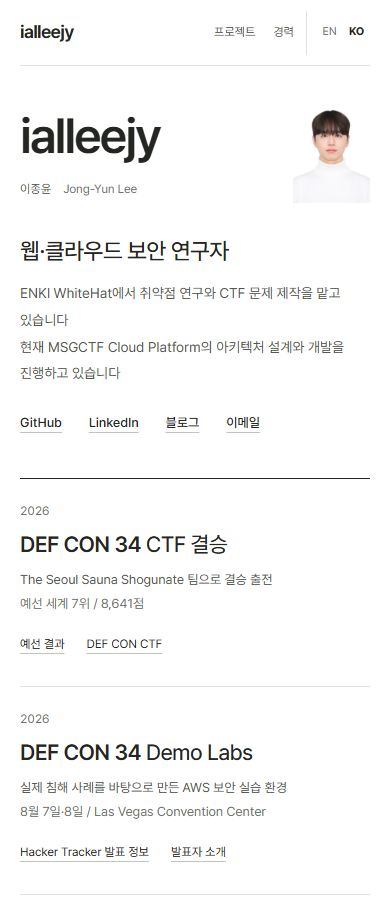
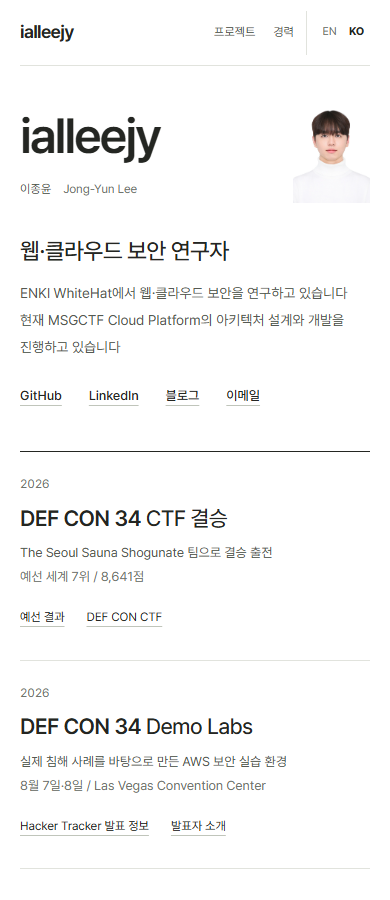
Clarify security research role in portfolio introduction

diff --git a/index_ko.html b/index_ko.html
@@ -48,7 +48,7 @@
         <h1 id="intro-title">ialleejy</h1>
         <p class="hero-identity">이종윤<span>Jong-Yun Lee</span></p>
         <p class="hero-role">웹·클라우드 보안 연구자</p>
-        <p class="hero-copy">ENKI WhiteHat에서 취약점 연구와 CTF 문제 제작을 맡고 있습니다<br> 현재 MSGCTF Cloud Platform의 아키텍처 설계와 개발을 진행하고 있습니다</p>
+        <p class="hero-copy">ENKI WhiteHat에서 웹·클라우드 보안을 연구하고 있습니다<br> 현재 MSGCTF Cloud Platform의 아키텍처 설계와 개발을 진행하고 있습니다</p>
         <div class="hero-links"><div class="link-row" aria-label="연락처와 프로필"><a href="https://github.com/jongcoding" target="_blank" rel="noopener noreferrer">GitHub</a>
 <a href="https://www.linkedin.com/in/jongyun-lee-753747122/" target="_blank" rel="noopener noreferrer">LinkedIn</a>
 <a href="https://ialleejy.tistory.com" target="_blank" rel="noopener noreferrer">블로그</a>
@@ -377,9 +377,9 @@
         </div>
         <div class="job-body">
           <dl class="workstreams">
-            <div><dt>웹 보안 연구와 문제 제작</dt><dd>실제 서비스 구조를 바탕으로 취약점 시나리오를 설계하고 CODEGATE·HACKTHEON Web 문제 제작</dd></div>
+            <div><dt>웹 보안과 취약점 연구</dt><dd>웹 애플리케이션의 구조와 인증 흐름을 분석하고 취약점이 발생하는 조건과 영향을 연구</dd></div>
             <div><dt>클라우드·AI 에이전트 보안 연구</dt><dd>AWS Bedrock Agent와 RAG 지식 베이스, OIDC 인증 흐름, IAM 신뢰 정책을 중심으로 애플리케이션과 클라우드 사이의 신뢰 경계 연구</dd></div>
-            <div><dt>실습 환경 개발과 배포 검증</dt><dd>Docker·Compose·Nginx 기반 실행 환경 구성, 의도한 풀이와 해설 작성, 운영 환경에서 문제 동작과 재현 조건 검증</dd></div>
+            <div><dt>보안 연구 환경 개발과 검증</dt><dd>Docker·Compose·Nginx 기반 연구 환경 구성, 취약점 재현 조건과 서비스 동작 검증, 연구 결과 문서화</dd></div>
           </dl>
           <div class="challenge-grid" aria-label="제작한 CTF 문제">
             <div>

diff --git a/index.html b/index.html
@@ -48,7 +48,7 @@
         <h1 id="intro-title">ialleejy</h1>
         <p class="hero-identity">Jong-Yun Lee<span>이종윤</span></p>
         <p class="hero-role">Web &amp; cloud security researcher</p>
-        <p class="hero-copy">Security research and CTF challenge design at ENKI WhiteHat<br> Currently designing and building MSGCTF Cloud Platform with the team</p>
+        <p class="hero-copy">Web and cloud security research at ENKI WhiteHat<br> Currently designing and building MSGCTF Cloud Platform with the team</p>
         <div class="hero-links"><div class="link-row" aria-label="Contact &amp; profiles"><a href="https://github.com/jongcoding" target="_blank" rel="noopener noreferrer">GitHub</a>
 <a href="https://www.linkedin.com/in/jongyun-lee-753747122/" target="_blank" rel="noopener noreferrer">LinkedIn</a>
 <a href="https://ialleejy.tistory.com" target="_blank" rel="noopener noreferrer">Blog</a>
@@ -377,9 +377,9 @@
         </div>
         <div class="job-body">
           <dl class="workstreams">
-            <div><dt>Web research &amp; challenge design</dt><dd>Designed vulnerability scenarios around real service architectures and authored Web challenges for CODEGATE and HACKTHEON</dd></div>
+            <div><dt>Web security &amp; vulnerability research</dt><dd>Analyzed web application architectures and authentication flows, researching vulnerability conditions and impact</dd></div>
             <div><dt>Cloud &amp; AI agent security</dt><dd>Researched trust boundaries across applications and cloud services, including AWS Bedrock Agents, RAG knowledge bases, OIDC flows and IAM trust policies</dd></div>
-            <div><dt>Lab development &amp; delivery</dt><dd>Built Docker, Compose and Nginx environments, prepared reference solutions and write-ups, and validated challenge behavior and reproducibility for delivery</dd></div>
+            <div><dt>Research environments &amp; validation</dt><dd>Built Docker, Compose and Nginx research environments, validated vulnerability reproduction conditions and service behavior, and documented findings</dd></div>
           </dl>
           <div class="challenge-grid" aria-label="Authored CTF challenges">
             <div>

diff --git a/docs/content-notes.md b/docs/content-notes.md
@@ -29,7 +29,8 @@ Its authentication wall prevented direct profile review, so the relevant additio
 - Lead with the owner's handle ialleejy, current work, contact links, DEF CON finals participation and the Demo Labs presentation
 - Keep the full Korean and English names below the primary handle and retain the real-name profile metadata
 - Separate the seventh-place qualifier result from finals participation without implying a finals ranking
-- Describe ENKI work through research topics, challenge authorship and reproducible lab delivery
+- Describe ENKI work through web and cloud security research, vulnerability analysis and research environment engineering
+- Keep CTF authorship in the named event credits rather than in the profile introduction or the general job summary
 - Keep INC0GNITO's February to May 2026 community organizing and authorship separate from the ENKI role that started in March
 - Keep community work on GnawLab distinct from employer ownership
 - Mark MSGCTF Cloud Platform as a team project in development, with integration and operational validation ongoing
